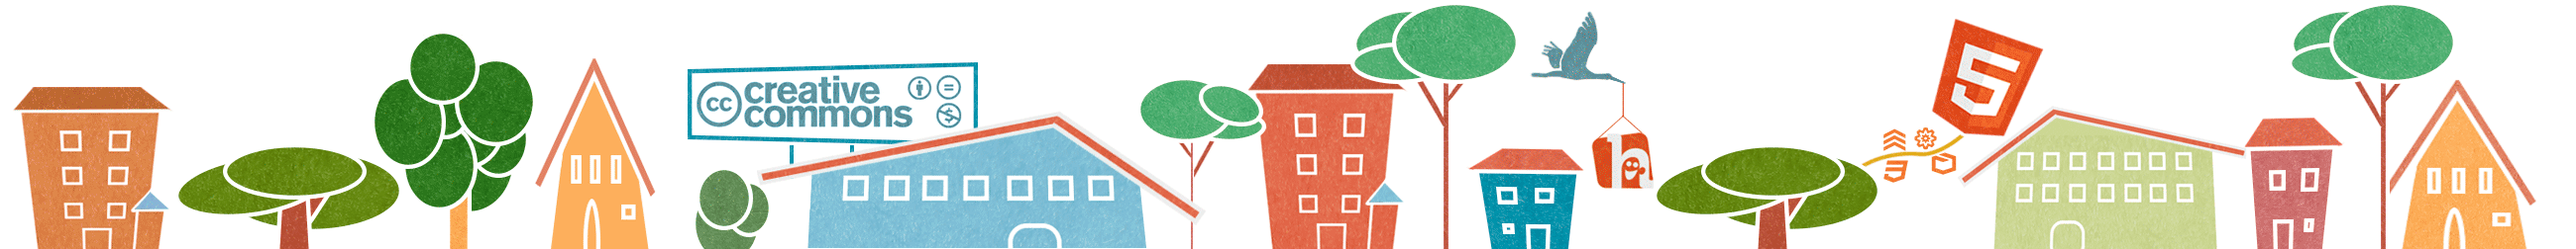
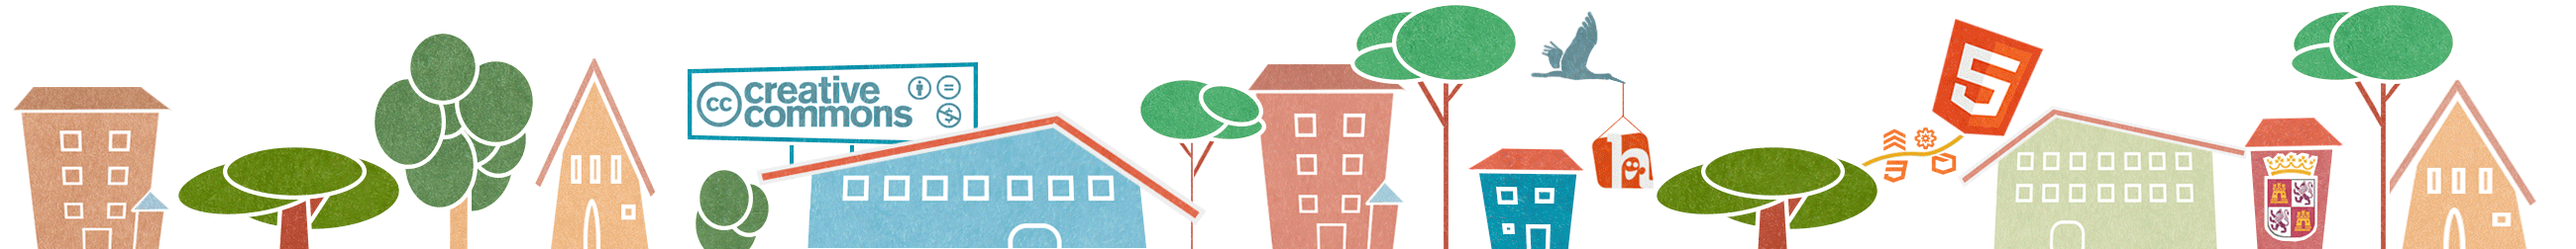
arreglo google analytics

diff --git a/source/index.html b/source/index.html
@@ -15,12 +15,12 @@
 	<link rel="shortcut icon" href="img/favicon.ico"/>
 	<script src="js/vendor/modernizr-2.6.2-respond-1.1.0.min.js"></script>
 	<script>
-	(function(i,s,o,g,r,a,m){i['GoogleAnalyticsObject']=r;i[r]=i[r]||function(){
-	(i[r].q=i[r].q||[]).push(arguments)},i[r].l=1*new Date();a=s.createElement(o),
-	m=s.getElementsByTagName(o)[0];a.async=1;a.src=g;m.parentNode.insertBefore(a,m)
-	})(window,document,'script','//www.google-analytics.com/analytics.js','ga');
-	ga('create', 'UA-42000949-1', 'juvecyl.es');
-	ga('send', 'pageview');
+			(function(i,s,o,g,r,a,m){i['GoogleAnalyticsObject']=r;i[r]=i[r]||function(){
+			(i[r].q=i[r].q||[]).push(arguments)},i[r].l=1*new Date();a=s.createElement(o),
+		m=s.getElementsByTagName(o)[0];a.async=1;a.src=g;m.parentNode.insertBefore(a,m)
+		})(window,document,'script','//www.google-analytics.com/analytics.js','ga');
+		ga('create', 'UA-42000949-1', 'juvecyl.es');
+		ga('send', 'pageview');
 	</script>
 </head>
 <body>
@@ -59,6 +59,7 @@
 			<area shape="poly" coords="695,71,984,64,985,129,906,144,696,139" href="http://creativecommons.org/licenses/by-nc-nd/3.0/deed.es_CO" target="_blank" alt="ccommons">
 			<area shape="poly" coords="1611,140,1657,133,1669,189,1619,190,1612,184,1607,147" href="humans.txt" target="_blank" alt="humans">
 			<area shape="poly" coords="1973,19,2061,49,2022,138,1983,135,1951,112,1949,111" href="http://www.w3.org/html/logo/" target="_blank" alt="html5">
+			<area shape="poly" coords="2285,160,2295,160,2302,156,2316,158,2325,154,2340,160,2333,176,2337,230,2326,240,2311,243,2294,239,2287,231,2285,178,2291,175," href="http://www.datosabiertos.jcyl.es/" target="_blank" alt="Datos Abiertos jCyL" />
 		</map>
 	</div>
 			
